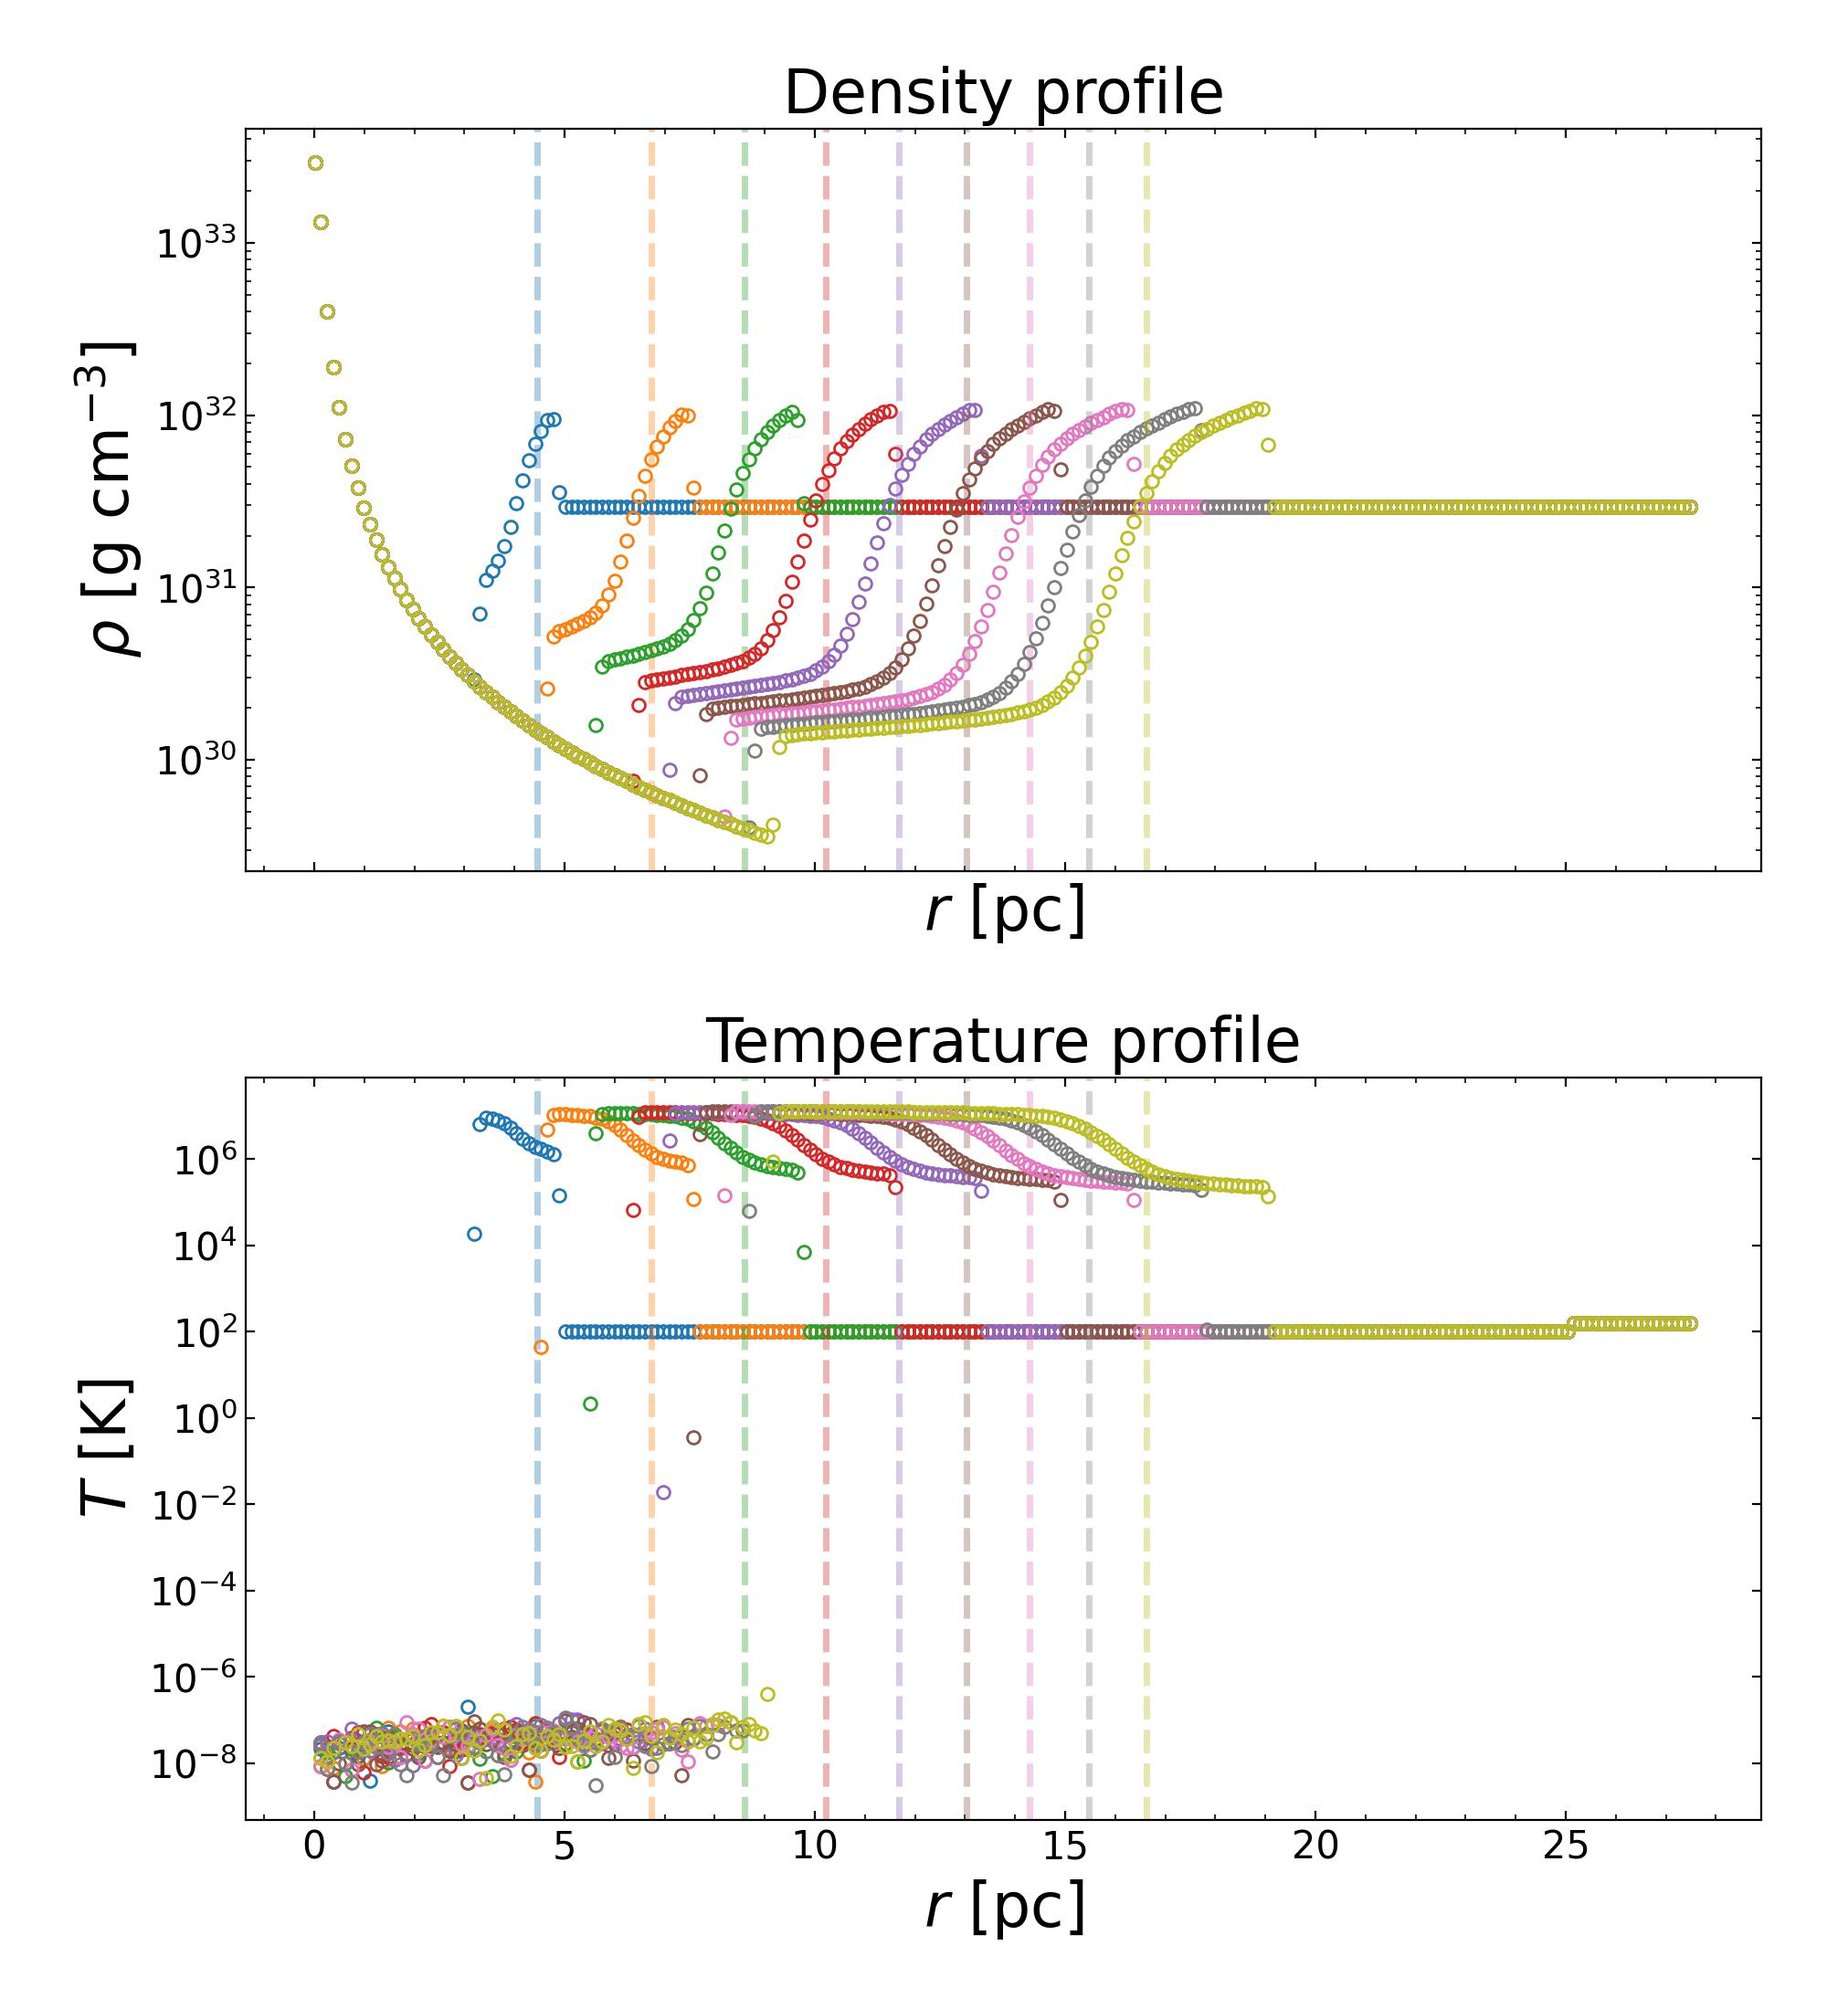
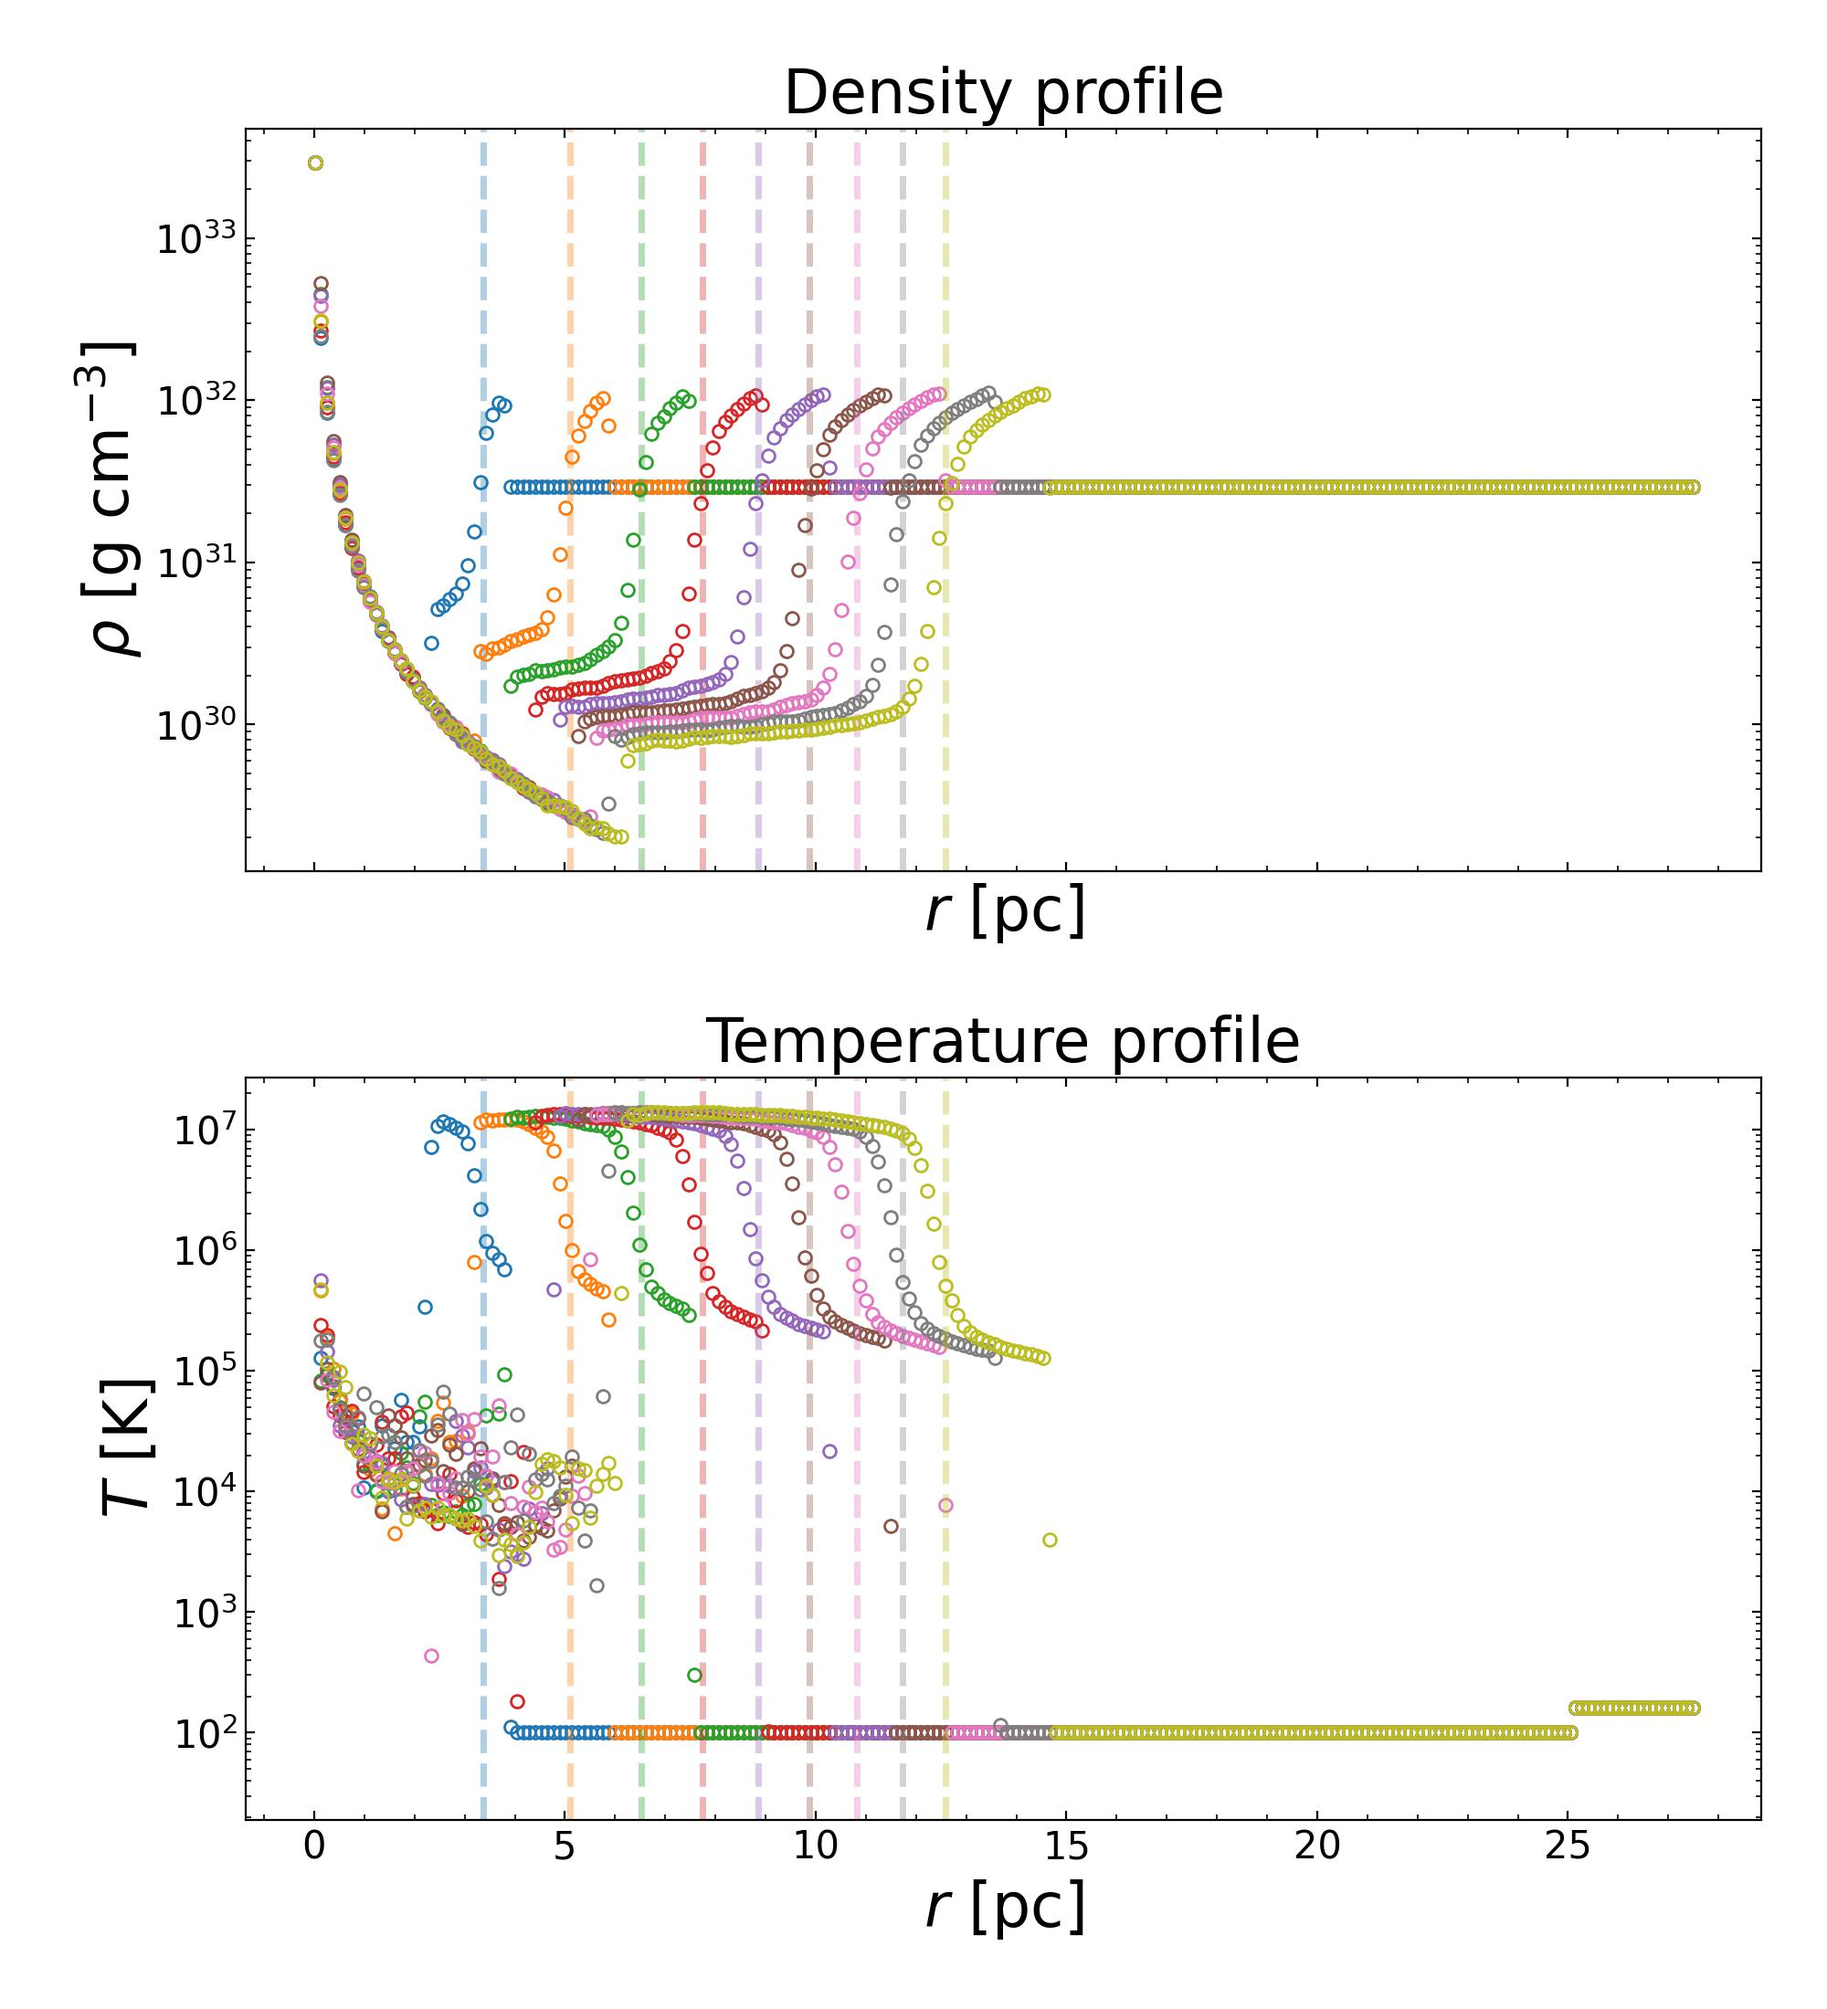
Stellar wind radius now aligns with Weaver 1977, but it is radius-definition dependent.

diff --git a/example/StellarWindBubble1D/tools.py b/example/StellarWindBubble1D/tools.py
@@ -78,32 +78,107 @@ def load_snapshot(outfilename, icparams):
 
 
 def numerical_forward_shock_radius(rout, search_fraction=0.1):
-    """Estimate the forward-shock radius from the steepest density drop."""
+    """Estimate the forward-shock radius from the steepest pressure drop."""
+
+    coordinate = 0.5 * (rout.mesh.boundary[1:] + rout.mesh.boundary[:-1])
+    pressure = (
+        rout.fluid.rho
+        / (rout.fluid.mu * unyt.mp)
+        * unyt.kb
+        * rout.fluid.temp
+    ).to(unyt.dyn / unyt.cm**2)
+
+    coordinate_values = coordinate.to_value(coordinate.units)
+    pressure_values = pressure.to_value(pressure.units)
+
+    if pressure_values.size < 3:
+        return None
+    if np.ptp(pressure_values) == 0.0:
+        return None
+
+    mask = coordinate_values >= 0.0
+    coordinate_values = coordinate_values[mask]
+    coordinate = coordinate[mask]
+    pressure_values = pressure_values[mask]
+    if pressure_values.size < 3:
+        return None
+
+    search_start = max(5, int(search_fraction * pressure_values.size))
+    search_start = min(search_start, pressure_values.size - 2)
+
+    gradient = np.gradient(pressure_values, coordinate_values)
+    shock_slice = gradient[search_start:]
+    if shock_slice.size == 0:
+        return None
+    shock_index = search_start + int(np.argmin(shock_slice))
+    return coordinate[shock_index]
+
+
+def format_density_threshold_factor(threshold_factor):
+    """Return a compact label for the shell-edge density factor."""
+
+    factor_value = float(np.asarray(threshold_factor).reshape(-1)[0])
+    return f"{factor_value:.2g}"
+
+
+def shell_inner_edge_radius(
+    rout,
+    ambient_density,
+    threshold_factor=1.0,
+):
+    """Estimate the cavity-side shell edge from the innermost density crossing."""
 
     coordinate = 0.5 * (rout.mesh.boundary[1:] + rout.mesh.boundary[:-1])
     density = rout.fluid.rho
 
     coordinate_values = coordinate.to_value(coordinate.units)
     density_values = density.to_value(density.units)
+    mask = coordinate_values >= 0.0
+    coordinate_values = coordinate_values[mask]
+    density_values = density_values[mask]
+    coordinate = coordinate[mask]
 
-    if density_values.size < 3:
-        return None
-    if np.allclose(density_values, density_values[0]):
-        return None
-
-    search_start = max(5, int(search_fraction * density_values.size))
-    search_start = min(search_start, density_values.size - 2)
-
-    peak_index = search_start + int(np.argmax(density_values[search_start:]))
-    if peak_index >= density_values.size - 1:
+    if density_values.size < 2:
         return None
 
-    gradient = np.gradient(density_values, coordinate_values)
-    shock_slice = gradient[peak_index:]
-    if shock_slice.size == 0:
+    threshold = (
+        ambient_density.to_value(density.units)
+        * float(np.asarray(threshold_factor).reshape(-1)[0])
+    )
+    above = density_values >= threshold
+    if not np.any(above):
         return None
-    shock_index = peak_index + int(np.argmin(shock_slice))
-    return coordinate[shock_index]
+
+    starts = np.flatnonzero(above & np.concatenate(([True], ~above[:-1])))
+    if starts.size == 0:
+        return None
+
+    if above[0]:
+        below = np.flatnonzero(~above)
+        if below.size == 0:
+            return None
+        search_start = int(below[0] + 1)
+        candidate_starts = starts[starts >= search_start]
+        if candidate_starts.size == 0:
+            return None
+        edge_index = int(candidate_starts[0])
+    else:
+        edge_index = int(starts[0])
+
+    if edge_index == 0:
+        return coordinate[0]
+
+    x0 = coordinate_values[edge_index - 1]
+    x1 = coordinate_values[edge_index]
+    y0 = density_values[edge_index - 1]
+    y1 = density_values[edge_index]
+    if y1 == y0:
+        return coordinate[edge_index]
+
+    fraction = (threshold - y0) / (y1 - y0)
+    fraction = np.clip(fraction, 0.0, 1.0)
+    radius = x0 + fraction * (x1 - x0)
+    return radius * coordinate.units
 
 
 def weaver_forward_shock_radius(rout, icparams, runparams):
@@ -204,18 +279,23 @@ def make_profile_figure(snapshots, icparams, runparams):
 
 
 def make_radius_figure(snapshots, icparams, runparams):
-    """Build the forward-shock radius evolution figure."""
+    """Build the cavity-side inner-shell-edge radius evolution figure."""
 
     figure, ax_radius = plt.subplots(1, 1, figsize=(8.5, 6.0))
     numerical_times = []
     numerical_radii = []
     weaver_times = []
     weaver_radii = []
+    shell_threshold_factor = runparams['shell_edge_density_threshold_factor']
 
     for rout in snapshots:
         if rout.par.time <= 0 * rout.par.time.units:
             continue
-        numerical_radius = numerical_forward_shock_radius(rout)
+        numerical_radius = shell_inner_edge_radius(
+            rout,
+            icparams['rhoini'],
+            shell_threshold_factor,
+        )
         if numerical_radius is None:
             continue
         weaver_radius = weaver_forward_shock_radius(rout, icparams, runparams)
@@ -231,7 +311,11 @@ def make_radius_figure(snapshots, icparams, runparams):
         color='k',
         lw=2.0,
         marker='o',
-        label='numerical shock',
+        label=(
+            'cavity-side inner edge '
+            f'(rho > {format_density_threshold_factor(shell_threshold_factor)} '
+            r'$\rho_{\rm amb}$)'
+        ),
     )
     ax_radius.plot(
         weaver_times,
@@ -242,9 +326,9 @@ def make_radius_figure(snapshots, icparams, runparams):
         marker='x',
         label='Weaver 1977',
     )
-    ax_radius.set_title('Forward-shock radius evolution')
+    ax_radius.set_title('Cavity-side inner-shell-edge radius evolution')
     ax_radius.set_xlabel('Time [Myr]')
-    ax_radius.set_ylabel(r'$R_{\rm fs}$ [pc]')
+    ax_radius.set_ylabel(r'$R_{\rm in}$ [pc]')
     ax_radius.legend(loc='best')
     ax_radius.grid(alpha=0.2)
     figure.tight_layout()

diff --git a/tests/test_example.py b/tests/test_example.py
@@ -1,9 +1,40 @@
 import unittest
 from pathlib import Path
+from types import SimpleNamespace
+import importlib.util
+import sys
 
 import unyt
 
 from radhydropy.example_config import load_example_parameters
+
+STELLAR_WIND_TOOLS_PATH = (
+    Path(__file__).resolve().parents[1]
+    / 'example'
+    / 'StellarWindBubble1D'
+    / 'tools.py'
+)
+WEAVER_ANALYTIC_PATH = (
+    Path(__file__).resolve().parents[1]
+    / 'example'
+    / 'StellarWindBubble1D'
+    / 'weaver_analytic.py'
+)
+WEAVER_ANALYTIC_SPEC = importlib.util.spec_from_file_location(
+    'weaver_analytic',
+    WEAVER_ANALYTIC_PATH,
+)
+weaver_analytic = importlib.util.module_from_spec(WEAVER_ANALYTIC_SPEC)
+assert WEAVER_ANALYTIC_SPEC.loader is not None
+sys.modules['weaver_analytic'] = weaver_analytic
+WEAVER_ANALYTIC_SPEC.loader.exec_module(weaver_analytic)
+STELLAR_WIND_TOOLS_SPEC = importlib.util.spec_from_file_location(
+    'stellar_wind_bubble1d_tools_for_tests',
+    STELLAR_WIND_TOOLS_PATH,
+)
+stellar_wind_tools = importlib.util.module_from_spec(STELLAR_WIND_TOOLS_SPEC)
+assert STELLAR_WIND_TOOLS_SPEC.loader is not None
+STELLAR_WIND_TOOLS_SPEC.loader.exec_module(stellar_wind_tools)
 
 
 class Testing(unittest.TestCase):
@@ -166,15 +197,47 @@ class Testing(unittest.TestCase):
         self.assertEqual(runparams['coordsys'], 'spherical')
         self.assertEqual(runparams['boundcond'], 'OutflowSph')
         self.assertEqual(runparams['EOStype'], 'polytropic')
+        self.assertTrue(
+            runparams['outputtimefilename'].endswith(
+                'stellar_wind_bubble1d_output_times.txt'
+            )
+        )
+        self.assertEqual(
+            runparams['shell_edge_density_threshold_factor'],
+            1.0,
+        )
+        self.assertEqual(runparams['order'], 1)
         self.assertEqual(icparams['nogrid'], 1024)
         self.assertEqual(icparams['boxsize'].to_value(unyt.pc), 25.0)
-        self.assertEqual(icparams['rinj'].to_value(unyt.pc), 0.1)
+        self.assertEqual(icparams['rinj'].to_value(unyt.pc), 0.05)
         self.assertEqual(icparams['rhoini'].to_value(unyt.g / unyt.cm**3), 1.0e-24)
         self.assertEqual(runparams['vel_outflow'].to_value(unyt.km / unyt.s), 1000.0)
         self.assertEqual(runparams['rho_outflow'].to_value(unyt.g / unyt.cm**3), 1.0e-22)
         self.assertEqual(icparams['time'].to_value(unyt.Myr), 0.0)
         self.assertEqual(runparams['timesim'].to_value(unyt.Myr), 0.1)
-        self.assertEqual(runparams['outdeltatime'].to_value(unyt.Myr), 0.01)
+
+    def test_stellar_wind_shell_edge_radius_uses_inner_shell(self):
+        boundary = unyt.unyt_array(
+            [0, 1, 2, 3, 4, 5, 6, 7, 8, 9, 10],
+            unyt.pc,
+        )
+        density = unyt.unyt_array(
+            [2.0, 2.0, 0.0, 0.0, 0.0, 2.0, 2.0, 0.0, 0.0, 0.0],
+            unyt.g / unyt.cm**3,
+        ) * 1.0e-24
+        rout = SimpleNamespace(
+            mesh=SimpleNamespace(boundary=boundary),
+            fluid=SimpleNamespace(rho=density),
+        )
+
+        radius = stellar_wind_tools.shell_inner_edge_radius(
+            rout,
+            unyt.unyt_quantity(1.0e-24, unyt.g / unyt.cm**3),
+            threshold_factor=1.0,
+        )
+
+        self.assertIsNotNone(radius)
+        self.assertAlmostEqual(radius.to_value(unyt.pc), 5.0, places=2)
 
     def test_static_stromgren_sphere1d_uses_yaml_config(self):
         config_filename = (
